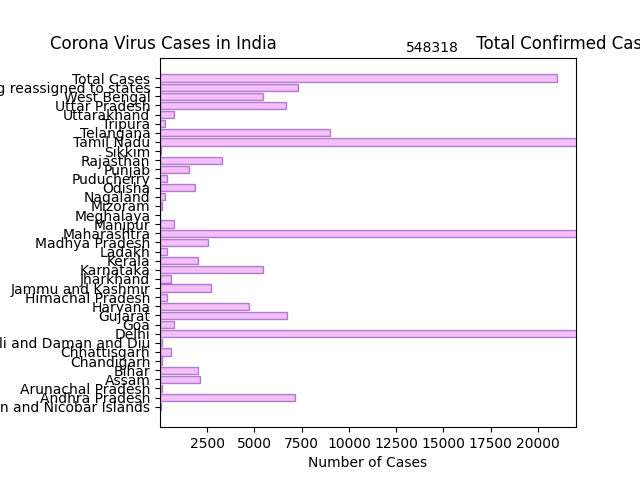
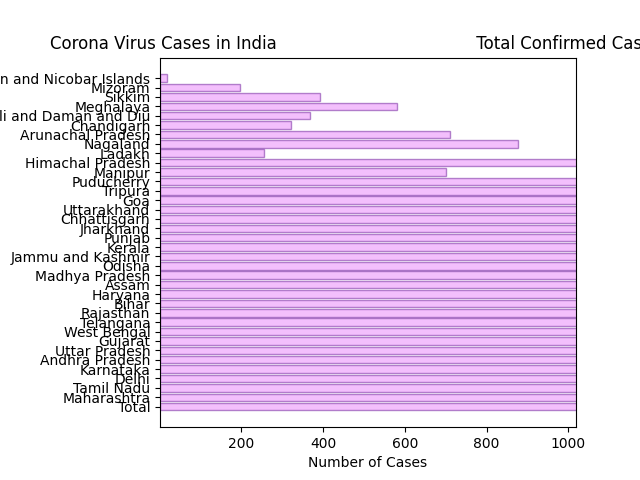
added APIs

diff --git a/COVID-19 Stats.py b/COVID-19 Stats.py
@@ -1,15 +1,16 @@
 from plyer import notification
 import requests
-from bs4 import BeautifulSoup
+from bs4 import BeautifulSoup, Comment
+
 import time
 from tabulate import tabulate
 import numpy as np
-from fpdf import FPDF
-import pdfkit
+#from fpdf import FPDF
+#import pdfkit
 import os
 import matplotlib.pyplot as plt 
 import csv
-from reportlab.pdfgen import canvas 
+#from reportlab.pdfgen import canvas 
 from openpyxl import Workbook
 import string
 
@@ -26,40 +27,54 @@ class Solution:
 
     def getData(self, url):
         r = requests.get(url)
-        return r.text
+        return r
 
     def updates(self, states):
-        # notifyMe("Yash", "lets stop the spreaf the virus togehter")
-        myHtmlData = self.getData("https://www.mohfw.gov.in/")
-        soup = BeautifulSoup(myHtmlData, 'html.parser')
-        # print(soup.prettify())
-
-        extract_contents = lambda row: [x.text.replace('\n', '') for x in row] 
-        header = extract_contents(soup.tr.find_all('th'))
+        html = self.getData("https://api.covid19india.org/data.json")
+        data = html.json()
+        stats = []
+        for i in range(36):
+            lst = []
+            lst.append(str(i))
+            lst.append(data["statewise"][i]['state'])
+            lst.append(data["statewise"][i]['active'])
+            lst.append(data["statewise"][i]['recovered'])
+            lst.append(data["statewise"][i]['deaths'])
+            lst.append(data["statewise"][i]['confirmed'])
+            stats.append(lst)
+        # print(stats)
+        # # notifyMe("Yash", "lets stop the spreaf the virus togehter")
+        # myHtmlData = self.getData("https://www.mohfw.gov.in/")
+        # soup = BeautifulSoup(myHtmlData, 'html.parser')
+        # # print(soup.prettify())
+         
+        # extract_contents = lambda row: [x.text.replace('\n', '') for x in row]
+        # header = extract_contents(soup.find_all('th'))
+        # print(header)
         SHORT_HEADERS = ['SNo', 'State','Total-Active-Cases','Cured','Death','Total-Confirmed-Cases']  
 
-
-        all_rows = soup.find_all('tr')  
-        stats = []
-        for row in all_rows[1:]:  
-            stat = extract_contents(row.find_all('td')) 
-            
-            if stat:  
-                if len(stat) == 5:  
-                    # last row  
-                    stat = ['', *stat]  
-                    stats.append(stat)  
-                elif len(stat) == 6:  
-                    stats.append(stat)
-
-        stats[-1][0] = len(stats)
-        stats[-1][1] = "Total Cases"
+        # all_rows = soup.find_all('table')  
+        # print(all_rows)
+        # stats = []
+        # for row in all_rows[1:]:  
+        #     stat = extract_contents(row.find_all('td')) 
+        #     # print(stat)
+        #     if stat:  
+        #         if len(stat) == 5:  
+        #             # last row  
+        #             stat = ['', *stat]  
+        #             stats.append(stat)  
+        #         elif len(stat) == 6:  
+        #             stats.append(stat)
+        # # print(stats)
+        # stats[-1][0] = len(stats)
+        # stats[-1][1] = "Total Cases"
 
         #list of all states
         objects = []
         for row in stats:
             objects.append(row[1])
-        # print(objects)
+        print(objects)
 
         #position of each state in objects list
         y_pos = np.arange(len(objects))
@@ -67,28 +82,28 @@ class Solution:
 
         #list of Active Cases of all states
         performance = []
-        for row in stats[:len(stats)-1]:
-            performance.append(int(row[2]))
+        for row in stats[:len(stats)-1]:  
+            performance.append(int(row[2]))   
 
-        performance.append(int(stats[-1][2][:len(stats[-1][2])-1]))
+        performance.append(int(stats[-1][2][:len(stats[-1][2])-1]))   
 
     # Below 2 lines is to built table for getting all details of corona virus cases in india.
-        table = tabulate(stats, headers=SHORT_HEADERS, tablefmt="pretty")
+        table = tabulate(stats, headers=SHORT_HEADERS, tablefmt="pretty")   
         print(table)
-        # below 6 lines will convert this table to .csv file
-        with open('stats.csv', 'w', newline='') as f:
-            thewriter = csv.writer(f)
+        # # below 6 lines will convert this table to .csv file
+        with open('stats.csv', 'w', newline='') as f:   
+            thewriter = csv.writer(f)   
 
-            thewriter.writerow(SHORT_HEADERS)
-            for i in stats:
-                thewriter.writerow(i)
+            thewriter.writerow(SHORT_HEADERS)   
+            for i in stats:   
+                thewriter.writerow(i)   
 
-        wb = Workbook()
-        ws = wb.active
-        with open('stats.csv', 'r') as f:
-            for row in csv.reader(f):
-                ws.append(row)
-        wb.save('stats.xlsx')
+        wb = Workbook()   
+        ws = wb.active   
+        with open('stats.csv', 'r') as f:   
+            for row in csv.reader(f):   
+                ws.append(row)   
+        wb.save('stats.xlsx')   
 
 
         # pdfkit.from_file('stats.csv', 'stats.pdf')
@@ -110,11 +125,11 @@ class Solution:
     # Below Code is for Notification
         # states = ['Rajasthan', 'Maharashtra', 'Uttar Pradesh', 'Delhi']
         
-        for dataList in stats[36:37]:    
+        for dataList in stats[0:1]:    
             nTitle = "Total Cases of Cornavirus in INDIA till now"
             nText = f"Total Active cases in India: {dataList[2]}\nTotal Patients Cured/ Discharged: {dataList[3]}\nTotal Deaths: {dataList[4]}\nTotal Confirmed Cases: {dataList[5]}"
             self.notifyMe(nTitle,nText)
-            time.sleep(2)
+            time.sleep(4)
 
         for dataList in stats[:35]:
             if dataList[1] in states:
@@ -134,7 +149,7 @@ class Solution:
         plt.subplots_adjust(left=0.25) 
         plt.xlabel('Number of Cases')  
         plt.title('Corona Virus Cases in India                                      Total Confirmed Cases = ')
-        plt.text(14400, 39.3, int(stats[36][5]), horizontalalignment='center', verticalalignment='center')
+        plt.text(14400, 39.3, int(stats[0][5]), horizontalalignment='center', verticalalignment='center')
         plt.savefig('stats.png') 
         # plt.show()
 
